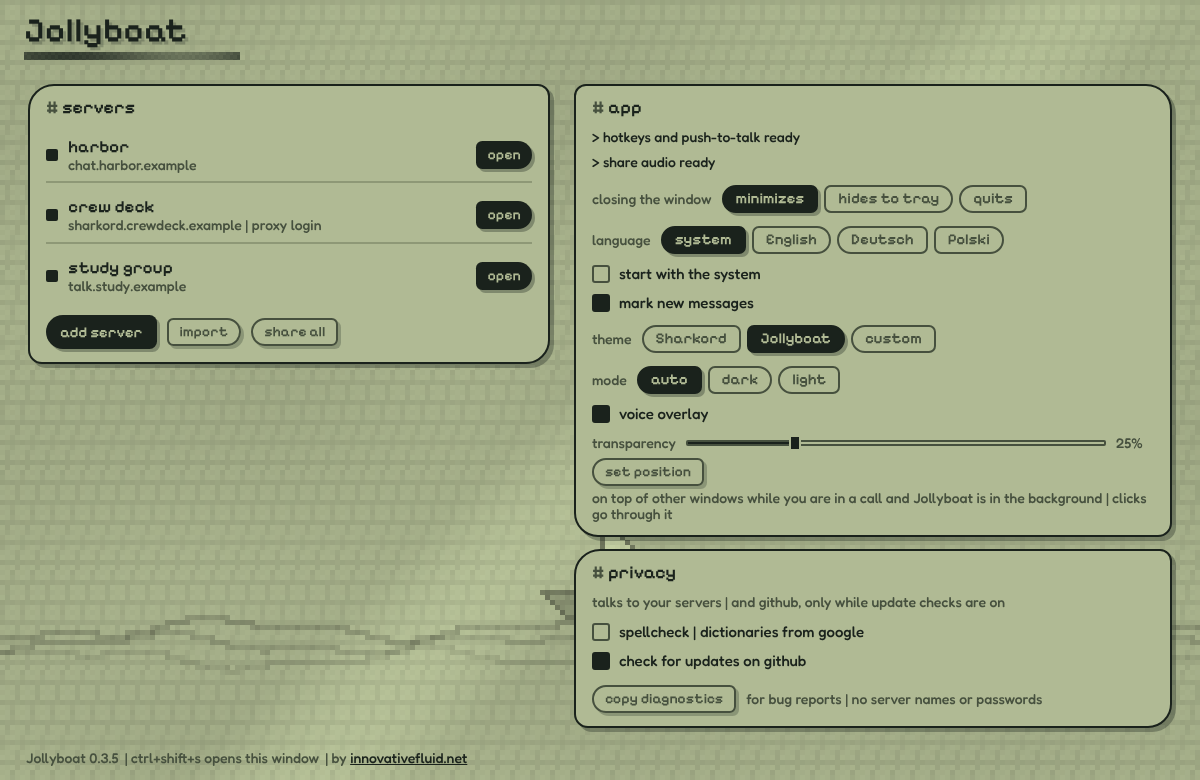
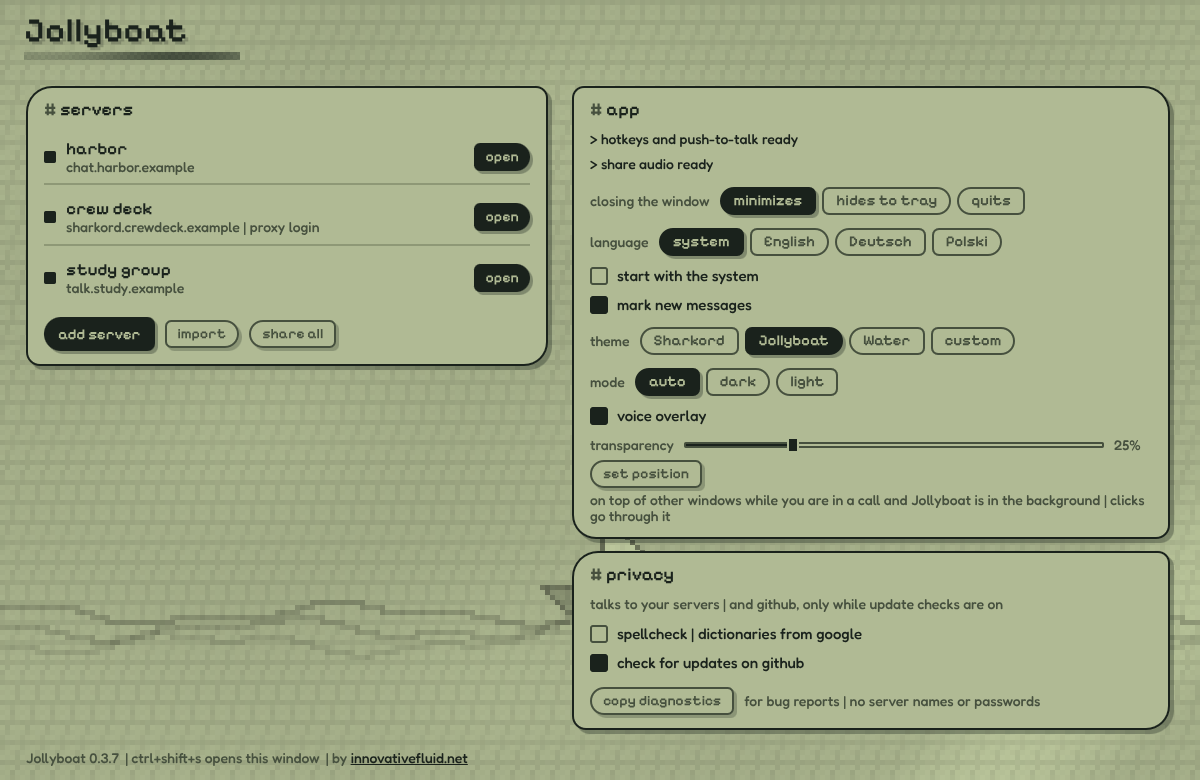
README and screenshots: the Water theme, a Themes section
- docs/jollyboat-theme.png (was sharkord-theme.png): the Jollyboat theme | Sharkord, both dark,
  retaken from 0.3.7
- docs/water-theme.png: the Water theme, light | dark (the split clear of the bar's buttons)
- docs/launcher.png: retaken from 0.3.7 (the Water choice in the theme row)
- README: what the app is in one line, the themes in their own section, the themed tray, the
  icon script under Build

Claude-Session: https://claude.ai/code/session_01QEMnCDTKkcJ4ZdL3ogefjx

Changed region(s): [[0.0, 0.0615, 1.0, 0.9538], [0.2158, 0.9538, 0.37, 0.9846], [0.0925, 0.9538, 0.1542, 0.9846]]

diff --git a/README.md b/README.md
@@ -2,11 +2,15 @@
 
 # Jollyboat
 
-A desktop app for [Sharkord](https://sharkord.com) servers, for Windows and Linux on x64 and ARM (macOS experimental). Not affiliated with Sharkord.
+A desktop app for [Sharkord](https://sharkord.com) servers, for Windows and Linux on x64 and ARM (macOS experimental). It loads your server's own web app and adds what a browser tab can't: screen sharing with sound, global hotkeys, a tray, a voice overlay and themes. Not affiliated with Sharkord.
 
-![Sharkord in Jollyboat, both in dark mode: the Jollyboat theme on the left, Sharkord's own look on the right](docs/sharkord-theme.png)
+![The same Sharkord server in Jollyboat, both in dark mode: the Jollyboat theme on the left, Sharkord's own look on the right](docs/jollyboat-theme.png)
 
-<sub>The same server in both themes: Jollyboat's lcd look on the left, Sharkord's own on the right.</sub>
+<sub>The Jollyboat theme (left) and Sharkord's own look (right), both dark.</sub>
+
+![The same server in the Water theme: light on the left, dark on the right](docs/water-theme.png)
+
+<sub>The Water theme, light (left) and dark (right).</sub>
 
 ## What it adds
 
@@ -18,15 +22,23 @@ A desktop app for [Sharkord](https://sharkord.com) servers, for Windows and Linu
 - **Careful in calls** — asks before a reload or quit would drop you out of a call.
 
 **Around it**
-- **Tray** — shows when you are in voice, talking, muted, deafened, and new messages, in the look of the theme you picked (Sharkord, Jollyboat or Water). Closing the window minimizes, hides to the tray or quits.
+- **Tray** — shows when you are in voice, talking, muted or deafened, and when there are new messages; its icon matches your theme. Closing the window minimizes, hides to the tray or quits.
 - **Servers** — several, with proxy logins (basic auth), staying logged in, one that opens at start, and share codes to pass them on.
 - **One bar on top** — server name, zoom (50 to 300 %, the bar grows with it), servers and settings, window buttons.
 - **Light, dark or auto** — for everything: the Sharkord page, its bar, the overlay and the setup window.
-- **Themes** — Sharkord as it is, the **Jollyboat** theme (above, with the setup window's pixel type, pill buttons and a few stepped animations), **Water** (white and blue water under glass, the setup window and the bar included: live water with caustics, ripples and air bubbles under refracting, frosted glass, bubble buttons, a glass boat on liquid waves; Sharkord's parts float on it as glass panels the water shows through, the channel you are on a pill of water), or your own CSS.
 - **Languages** — English, German and Polish.
 - **Private** — talks to your servers, plus GitHub for update checks (one switch to turn off). No telemetry. On Windows, push-to-talk uses a keyboard hook while a hotkey is set: keys are compared with your hotkeys and never stored or sent.
 
-![servers and settings](docs/launcher.png)
+## Themes
+
+Pick one under **servers and settings**. The app's own windows (the bar above the page, the setup window, the overlay) follow along, in the lcd look or, with Water, in glass; each theme has its own tray icon.
+
+- **Sharkord** — Sharkord as it is.
+- **Jollyboat** — an lcd look: pixel type for headings, pill buttons, presence you can tell apart at a glance, a few stepped animations.
+- **Water** — white and blue water under glass. Live water with caustics, ripples and air bubbles runs behind everything; the sidebars, the chat and the bar are frosted glass panels floating on it, the buttons glass bubbles, the channel you are on a pill of water that fills as you pick it. Sent messages drop into the water, and whoever talks sends rings across it. It runs at 60 frames a second while the window is in front and 30 behind; without hardware graphics it keeps a lighter version drawn in CSS.
+- **Custom** — your own CSS for the Sharkord page, read again whenever the file changes.
+
+![The setup window: servers, app settings and privacy](docs/launcher.png)
 
 ## Install
 
@@ -58,6 +70,7 @@ npm run dist:win     # on Windows: the installer and both portable exes
 npm run dist:linux   # the unpacked app; the flatpak is built from source:
                      # flatpak-builder --user --install build-dir flatpak/net.innovativefluid.Jollyboat.yml
 npm run dist:mac     # on a mac (experimental)
+python3 tools/make-icons.py   # the app and tray icons, from build/pixel/ (needs Pillow)
 ```
 
 MIT — see [LICENSE](LICENSE) and [THIRD_PARTY_NOTICES.md](THIRD_PARTY_NOTICES.md).
